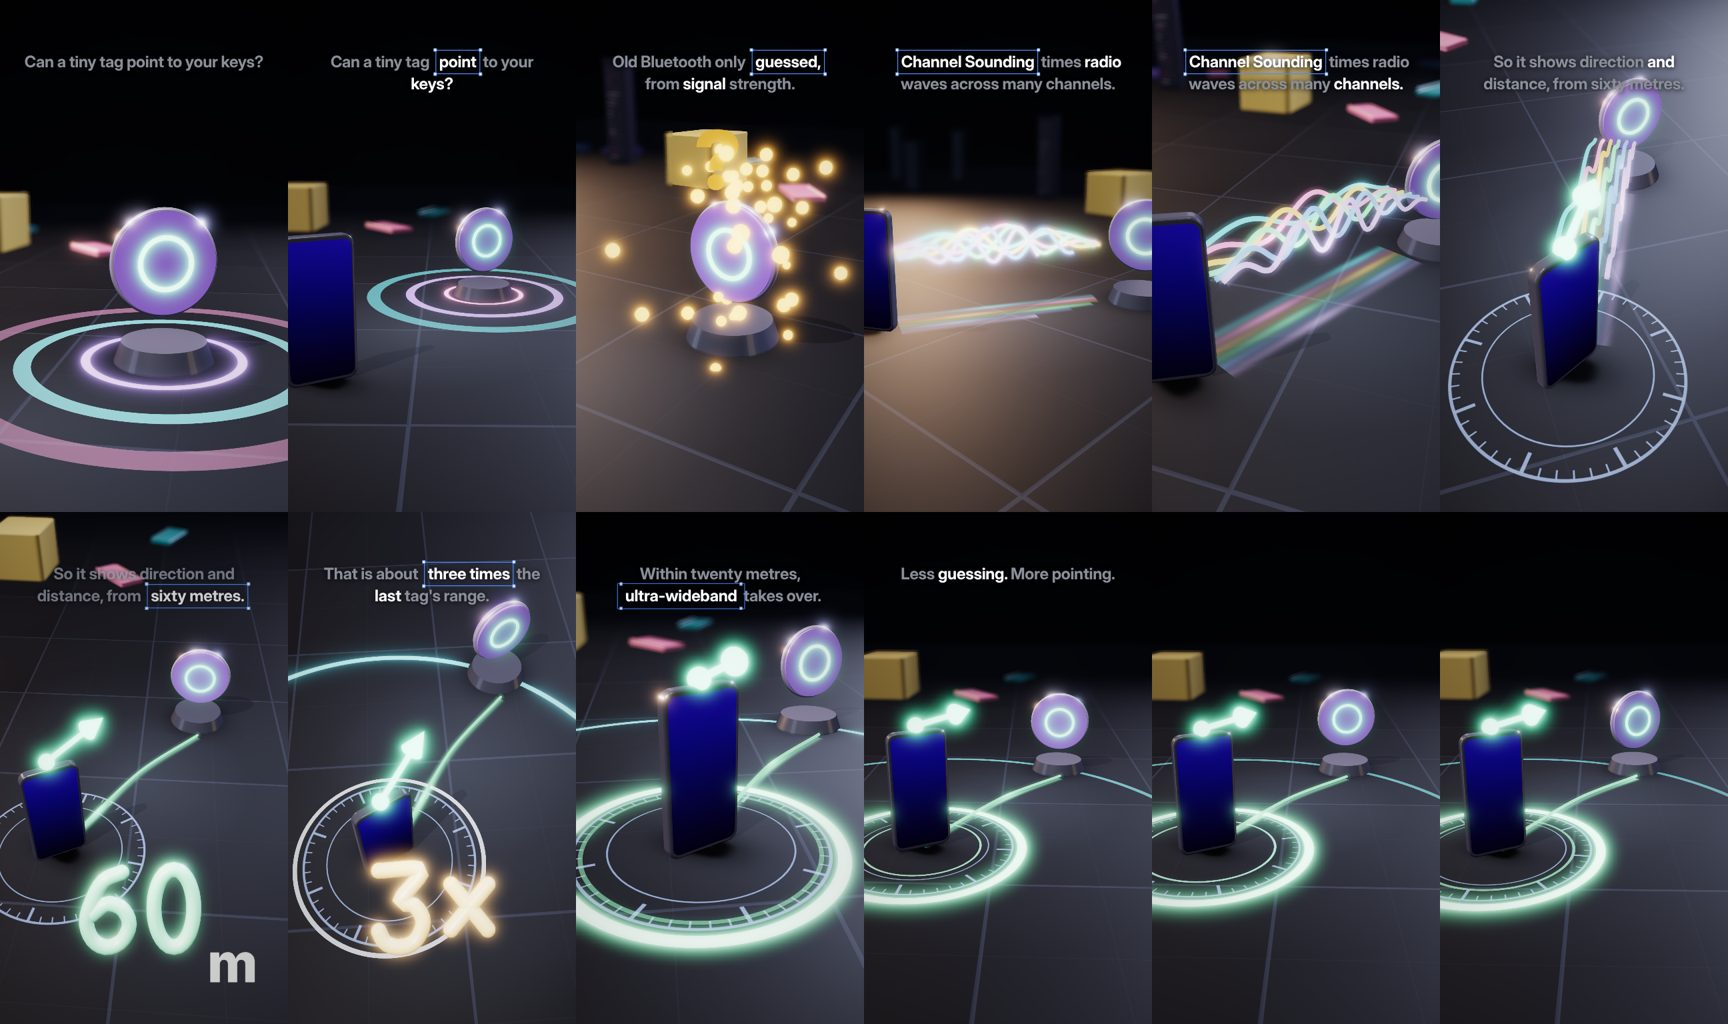
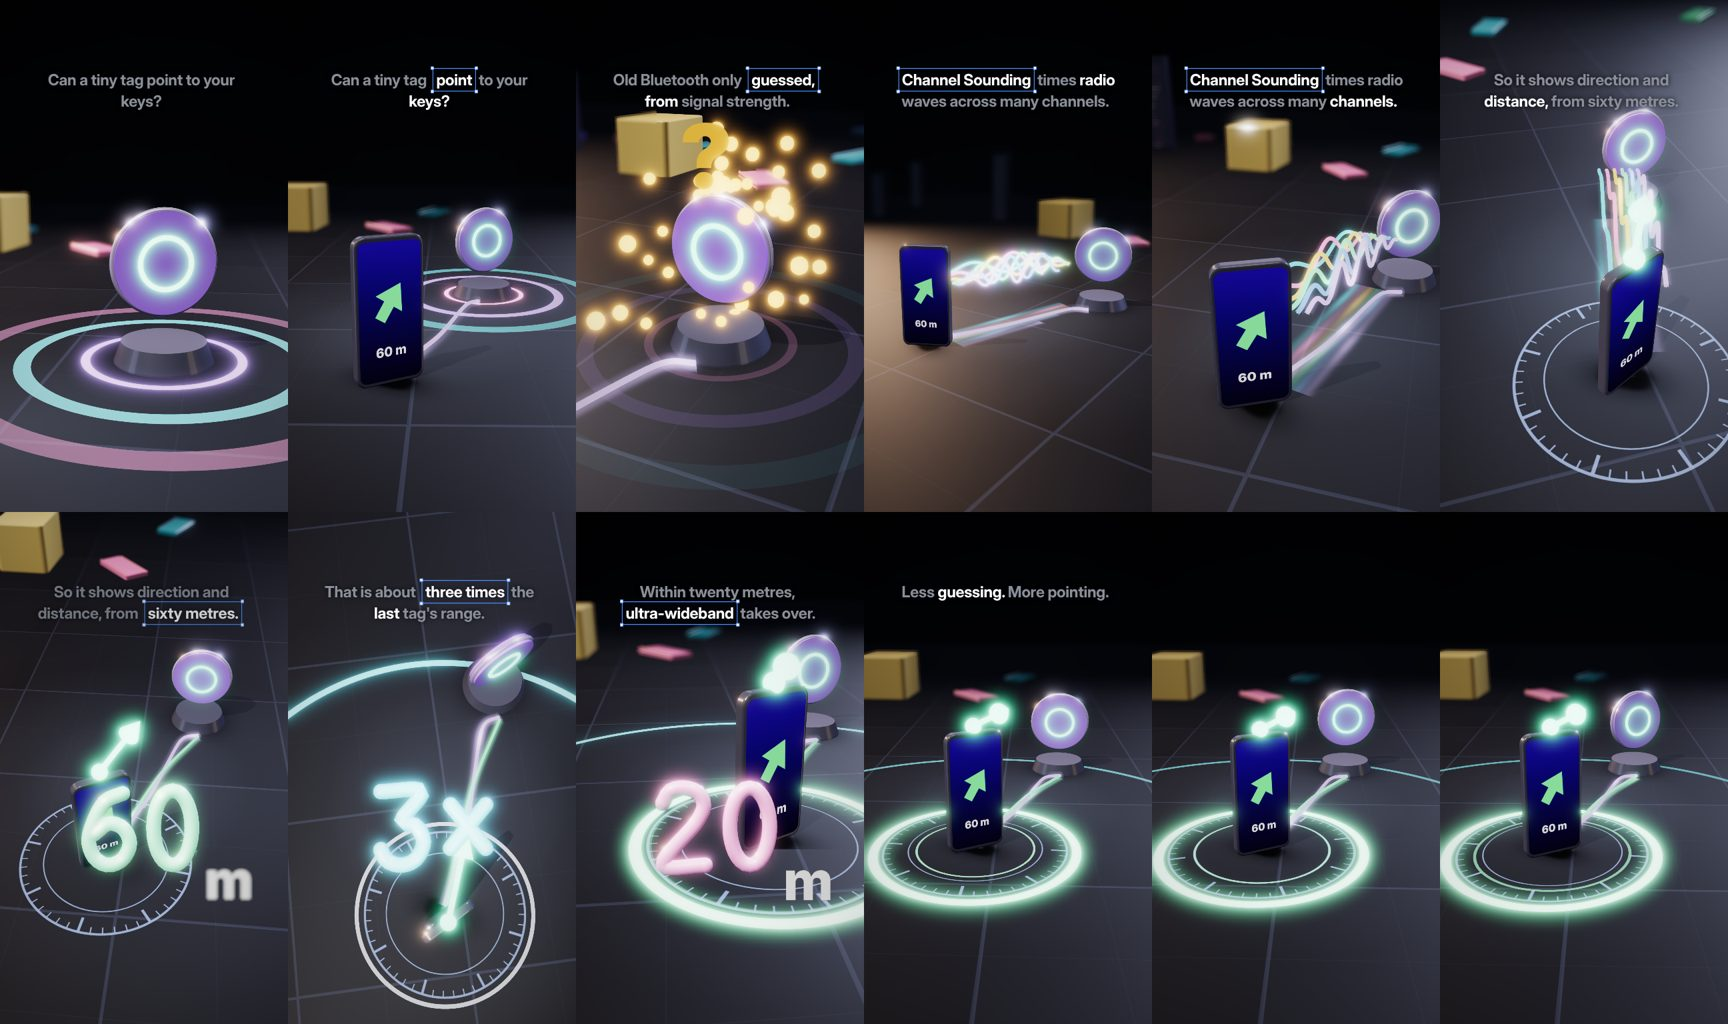
Tech 26 Nov: stills-check fixes (finder screen on the phone, numbers clear of the labels, top-down rings, wider wave shot)
Claude-Session: https://claude.ai/code/session_01AYvWRi1DCVCuQRkoQTx1Cy

diff --git a/techkit/scenes/tag-sounding.html b/techkit/scenes/tag-sounding.html
@@ -22,8 +22,8 @@ const world = W3D.world(S, { seed: 33, props: 30, radius: [14, 40], heroZone: 14
 const L = W3D.lib, gloss = W3D.gloss;
 
 // ---------- the cast: a phone (you), the tag on a plinth (your keys) ----------
-const PH = V(-1.0, 0, 3.2), TG = V(2.0, 0, -3.6), TAGY = 1.9;
-const phone = L.phone(THREE, { w: 1.5, h: 3.1, screenA: '#3a1f9e', screenB: '#120a2c' }); phone.position.copy(PH); phone.rotation.y = .5; S.scene.add(phone);
+const PH = V(-0.5, 0, 3.2), TG = V(2.0, 0, -3.6), TAGY = 1.9;
+const phone = L.phone(THREE, { w: 1.5, h: 3.1, screenA: '#3a1f9e', screenB: '#120a2c', screen: (c, w, h) => { c.save(); c.translate(w / 2, h * .42); c.rotate(-1.0); c.fillStyle = '#42ff8c'; c.beginPath(); c.moveTo(w * .3, 0); c.lineTo(-w * .05, -w * .25); c.lineTo(-w * .05, -w * .09); c.lineTo(-w * .32, -w * .09); c.lineTo(-w * .32, w * .09); c.lineTo(-w * .05, w * .09); c.lineTo(-w * .05, w * .25); c.closePath(); c.fill(); c.restore(); c.fillStyle = '#fff'; c.font = '800 ' + Math.round(w * .2) + 'px Inter, DejaVu Sans, sans-serif'; c.textAlign = 'center'; c.fillText('60 m', w / 2, h * .82); } }); phone.position.copy(PH); phone.rotation.y = .5; S.scene.add(phone);
 const tag = new THREE.Group(); tag.position.copy(TG); S.scene.add(tag);
 const plinth = new THREE.Mesh(new THREE.CylinderGeometry(.85, 1.0, .4, 48), gloss(THREE, 0x1b1d27, { roughness: .3, metalness: .4 })); plinth.position.y = .2; tag.add(plinth);
 const disc = new THREE.Group(); disc.position.y = TAGY; tag.add(disc);
@@ -65,7 +65,7 @@ const dirBeam = W3D.cable(S, [[PH.x, .12, PH.z], [lerp(PH.x, TG.x, .5), .12, ler
 const pathLine = W3D.cable(S, [[PH.x, .1, PH.z - .2], [lerp(PH.x, TG.x, .4), .1, lerp(PH.z, TG.z, .4) + .3], [lerp(PH.x, TG.x, .75), .1, lerp(PH.z, TG.z, .75) - .2], [TG.x, .1, TG.z + 1.1]], { color: 0xb08cff, radius: .055, glow: 1.5, segments: 80, light: 0, halo: .22, floorGlow: .7, floorStrength: .5, pulse: { speed: .4, width: .06 } });
 // ---------- number figures (ride the camera, lower part of the frame) ----------
 const mkFig = (txt, col, unit) => { const g = new THREE.Group(), f = L.figure(THREE, txt, { height: 1.45, color: col, radius: .1, emissive: .18 }); g.add(f); if (unit) { const u = new THREE.Mesh(new THREE.PlaneGeometry(1.3, 1.3), new THREE.MeshBasicMaterial({ map: W3D.tex(THREE, 128, 128, (c, w, h) => { c.fillStyle = '#fff'; c.font = '800 100px Inter, DejaVu Sans, sans-serif'; c.textAlign = 'center'; c.textBaseline = 'middle'; c.fillText(unit, w / 2, h / 2); }), transparent: true, toneMapped: false, fog: false })); u.position.set(f.userData.size.x / 2 + .55, -.35, 0); g.add(u); g.userData.w = f.userData.size.x + 1.1; } else g.userData.w = f.userData.size.x; g.visible = false; S.scene.add(g); g.traverse((m) => { if (m.isMesh) m.castShadow = false; }); return g; };
-const fig60 = mkFig('60', 0x42ff8c, 'm'), fig3 = mkFig('3x', 0xffa23a, ''), fig20 = mkFig('20', 0x22d3ee, 'm');
+const fig60 = mkFig('60', 0x42ff8c, 'm'), fig3 = mkFig('3x', 0x22d3ee, ''), fig20 = mkFig('20', 0xff6ac1, 'm');
 
 // ---------- captions ----------
 const KEYS = [[4, 4], [3, 3], [0, 1], [7, 8], [3, 4], [3, 3], [3, 3]];
@@ -83,10 +83,10 @@ const cam = W3D.camPath(S, [
   { t: 0, pos: [3.6, 3.4, 5.2], look: [2, 2.2, -3.6], fov: 50 },                        // 1 close on the tag, already moving
   { t: C.point + .9, pos: [.4, 4.6, 13.5], look: [.3, 1.9, -.6], fov: 52 },             // 2 pull back: phone and tag
   { t: C.guess + .5, pos: [6.2, 5.2, 5.2], look: [2, 1.8, -3.6], fov: 50 },            // 3 swing round the fuzzy zone
-  { t: C.sounding + .4, pos: [9.2, 4.6, 10.2], look: [.2, 2.4, -.4], fov: 58 },        // 4 low side track along the waves
+  { t: C.sounding + .4, pos: [10.4, 5.0, 12.0], look: [.2, 2.3, -.4], fov: 60 },        // 4 low side track along the waves
   { t: C.dir + .3, pos: [-3.8, 8.2, 9.2], look: [-.8, 1.7, .6], fov: 52 },            // 5 high over the phone: the compass
   { t: C.sixty + .8, pos: [1.0, 10.5, 12.5], look: [.2, 0, -.6], fov: 54 },             // wide high: the whole line
-  { t: C.three + .5, pos: [-.5, 14.5, 9.5], look: [-.2, 0, -.2], fov: 52 },             // 6 top-down: rings
+  { t: C.three + .5, pos: [0, 17.5, 1.5], look: [0, 0, -1.6], fov: 52 },             // 6 top-down: rings
   { t: C.twenty + .3, pos: [-3.2, 5.4, 10.6], look: [-1.7, 1.2, 2.8], fov: 52 },         // 7 close on the phone, UWB ring
   { t: C.less + .3, pos: [.8, 6.2, 15.5], look: [.2, 1.1, -.2], fov: 52 },              // 8 back to the tag
   { t: TOTAL, pos: [.5, 6.0, 15.0], look: [.2, 1.1, -.2], fov: 52 },                    // held payoff
@@ -119,9 +119,9 @@ function frame(t) {
   dial.visible = na > .01; dial.material.opacity = 1; dial.scale.setScalar(Math.max(.001, na)); dial.rotation.z = (t - C.dir) * .25;
   dirBeam.reveal(ease(prog(t, C.dir + .5, C.dir + 1.3))); dirBeam.update(t, 1);
   // figures follow the camera in the lower part of the frame
-  S.cam.updateMatrixWorld(); const ray = V(0, -.7, .5).unproject(S.cam).sub(S.cam.position).normalize();
+  S.cam.updateMatrixWorld(); const ray = V(0, -.38, .5).unproject(S.cam).sub(S.cam.position).normalize();
   const f60 = eback(prog(t, C.sixty - .05, C.sixty + .45)) * (1 - sm(prog(t, C.three - .1, C.three + .1))), f3 = eback(prog(t, C.three - .05, C.three + .45)) * (1 - sm(prog(t, C.twenty - .1, C.twenty + .1))), f20 = eback(prog(t, C.twenty - .05, C.twenty + .45)) * (1 - sm(prog(t, C.less - .1, C.less + .1)));
-  [[fig60, f60], [fig3, f3], [fig20, f20]].forEach(([f, a]) => { f.visible = a > .01; f.scale.setScalar(Math.max(.001, a)); f.position.copy(S.cam.position).addScaledVector(ray, 10); f.quaternion.copy(S.cam.quaternion); f.translateX(-f.userData.w * .5 * f.scale.x * 0 + 0); });
+  [[fig60, f60], [fig3, f3], [fig20, f20]].forEach(([f, a]) => { f.visible = a > .01; f.scale.setScalar(Math.max(.001, a)); f.position.copy(S.cam.position).addScaledVector(ray, 7); f.scale.multiplyScalar(.7); f.quaternion.copy(S.cam.quaternion); f.translateX(-f.userData.w * .5 * f.scale.x * 0 + 0); });
   // rings on the floor: old range (grey) -> 3x (cyan) at "three"; UWB (green, inside) at "twenty"
   const oldK = sm(prog(t, C.three - .5, C.three - .1)) * (1 - sm(prog(t, C.twenty - .2, C.twenty + .2)) * .8);
   setRing(oldRing, PH.x, PH.z, oldK, 1, 1.5);
